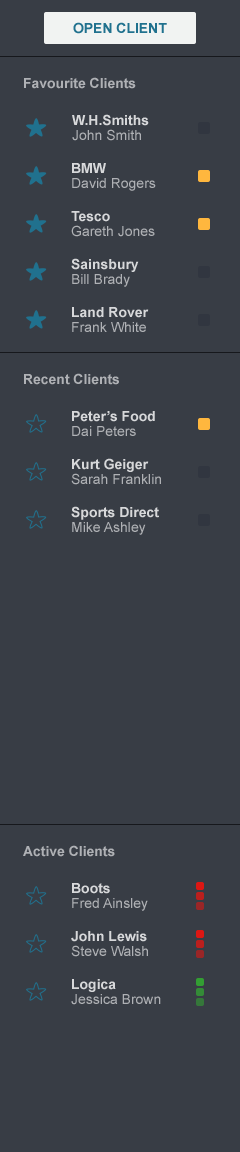
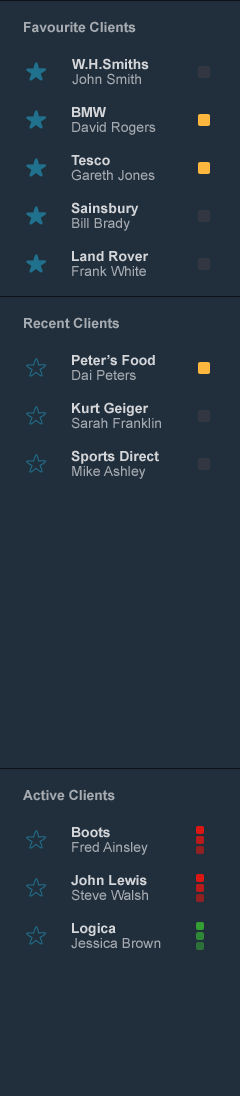
open clients button

diff --git a/resizable-layout/sass/resize.scss b/resizable-layout/sass/resize.scss
@@ -47,7 +47,7 @@ html, body {
     background-color: $caplin-blue;
     width: 100%;
     height: 50px;
-    border-bottom: 2px solid #20718e;
+    border-bottom: 2px solid $caplin-blue-shadow;
 }
 .logo {
   height: 50px;
@@ -71,8 +71,24 @@ html, body {
   width: 240px;
   height: 100%;
   background-color: $caplin-blue-dark;
+}
+.openClient-wrap {
+  text-align: center;
+}
+.openClient-btn {
+  padding: 8px 8px;
+  background-color: #f1f3f2;
+  margin: 12px auto;
+  width: 150px;
+  border-radius: 4px;
+  color: $caplin-blue-shadow;
+  font-weight: bold;
+  cursor: pointer;
+}
+.sidebar-clients {
   background-image: url(../img/clients-sidebar.png);
   background-repeat: no-repeat;
+  height: 100%;
 }
 .clientbar {
   position: absolute;
@@ -176,7 +192,7 @@ html, body {
   height: 344px;
 }
 .tiles-wrap {
-  padding-right: 140px;
+  padding-right: 240px;
 }
 .tiles {
   padding: 4px 4px 38px 4px;
@@ -291,7 +307,7 @@ html, body {
   width: 175px;
   position:absolute;
   top: 29px;
-  right: 140px;
+  right: 240px;
 }
 .blotter {
    overflow-y: scroll;

diff --git a/resizable-layout/css/resize.css b/resizable-layout/css/resize.css
@@ -57,9 +57,25 @@ html, body {
   top: 0;
   width: 240px;
   height: 100%;
-  background-color: #1c242b;
+  background-color: #1c242b; }
+
+.openClient-wrap {
+  text-align: center; }
+
+.openClient-btn {
+  padding: 8px 8px;
+  background-color: #f1f3f2;
+  margin: 12px auto;
+  width: 150px;
+  border-radius: 4px;
+  color: #20718e;
+  font-weight: bold;
+  cursor: pointer; }
+
+.sidebar-clients {
   background-image: url(../img/clients-sidebar.png);
-  background-repeat: no-repeat; }
+  background-repeat: no-repeat;
+  height: 100%; }
 
 .clientbar {
   position: absolute;
@@ -151,7 +167,7 @@ html, body {
   height: 344px; }
 
 .tiles-wrap {
-  padding-right: 140px; }
+  padding-right: 240px; }
 
 .tiles {
   padding: 4px 4px 38px 4px;
@@ -260,7 +276,7 @@ html, body {
   width: 175px;
   position: absolute;
   top: 29px;
-  right: 140px; }
+  right: 240px; }
 
 .blotter {
   overflow-y: scroll;

diff --git a/resizable-layout/index.html b/resizable-layout/index.html
@@ -53,7 +53,12 @@
     </div>
 
 <div class="mainWrap">
-    <div class="sidebar"></div>
+    <div class="sidebar">
+        <div class="openClient-wrap">
+            <div class="openClient-btn">Open Client</div>
+        </div>
+        <div class="sidebar-clients"></div>
+    </div>
     <div class="clientbar">
         <div class="clientName">W.H.Smiths - Mr. John Smith       PCE limit:  - 7,532 SGD</div>
         
